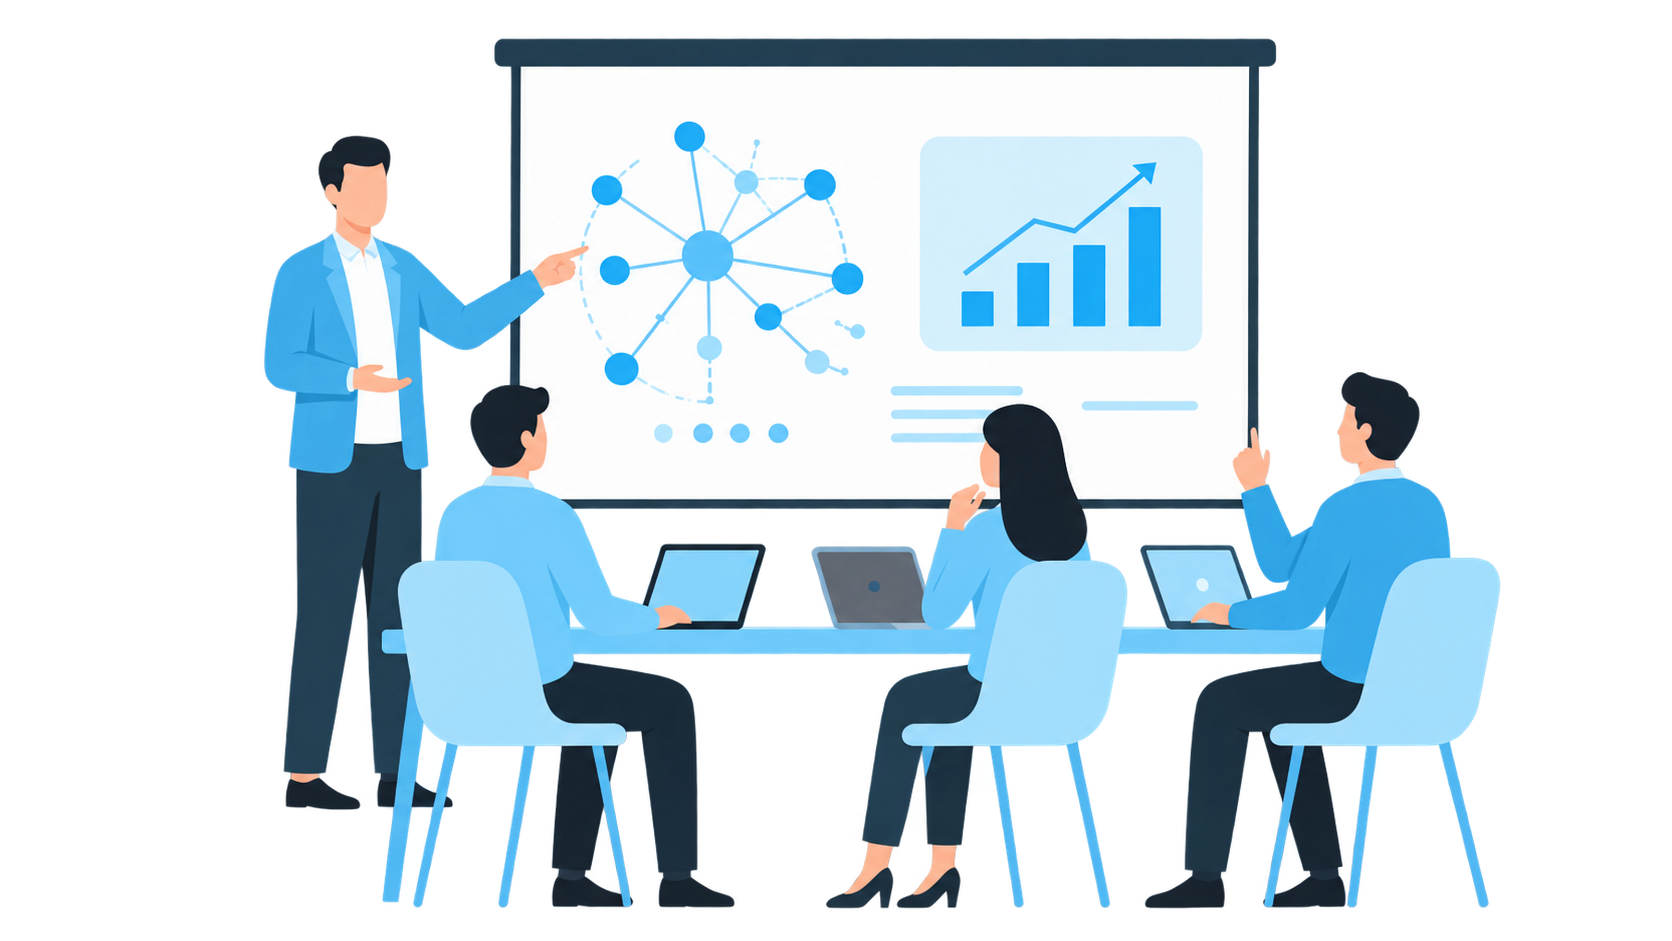
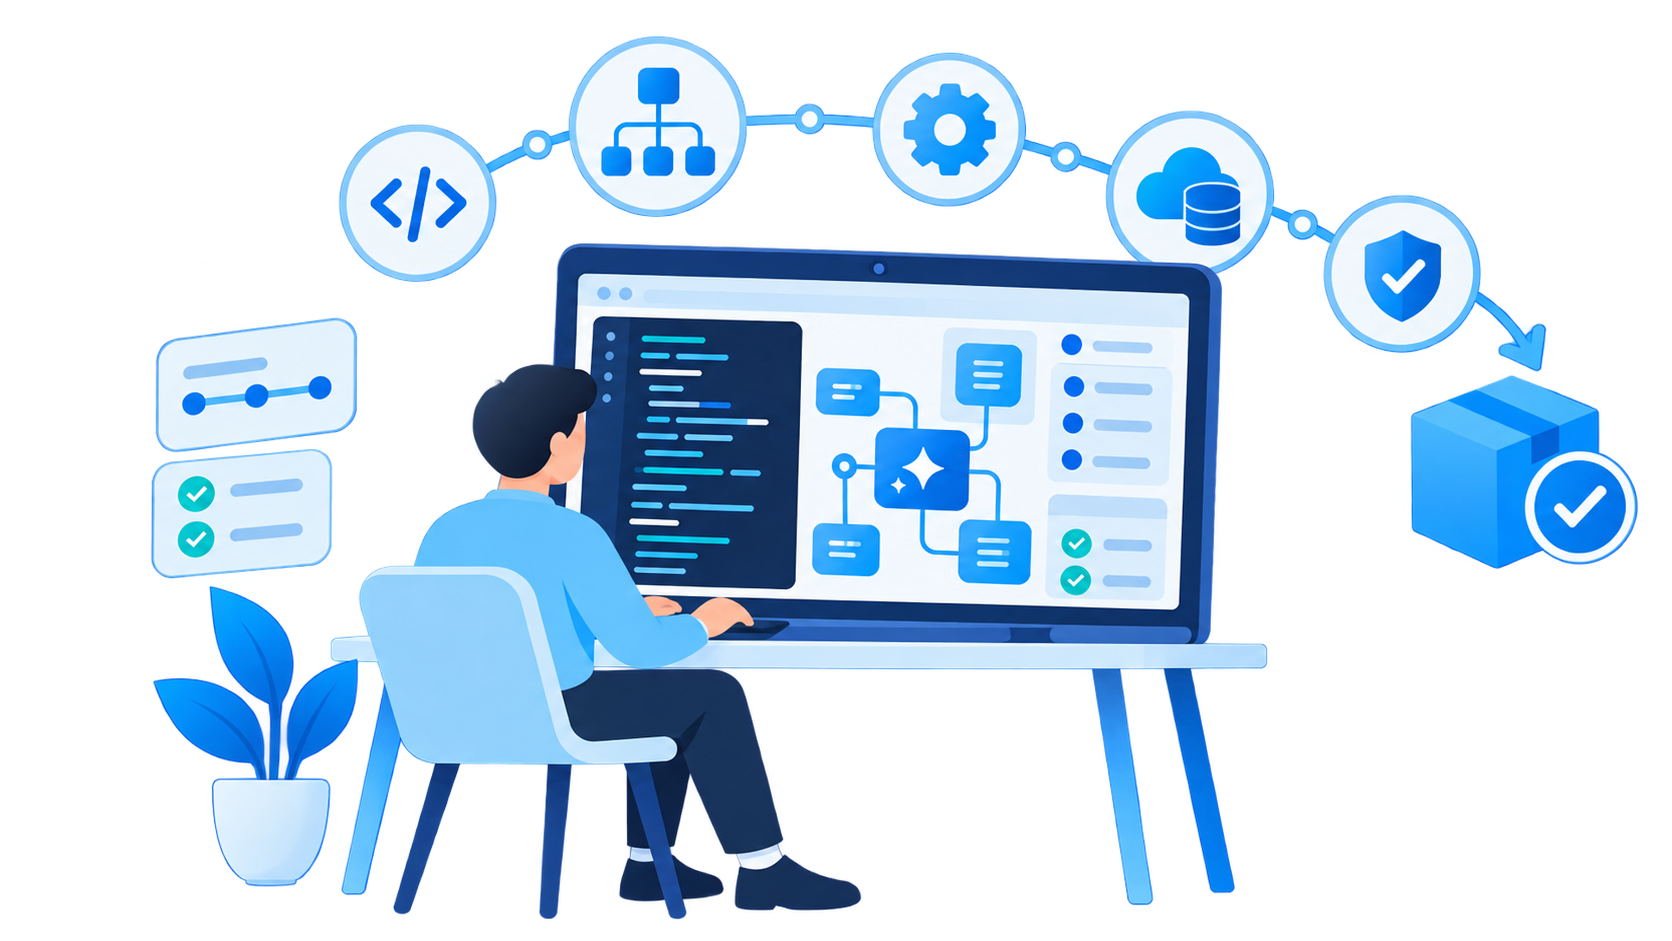
Update service lineup and card interactions

diff --git a/public/assets/style.css b/public/assets/style.css
@@ -164,9 +164,9 @@ img{max-width:100%}
 .nav-toggle{display:none;background:none;border:none;cursor:pointer;padding:6px;color:var(--navy)}
 
 /* ---------- Section heading ---------- */
-.sec{padding:124px 0 128px}
+.sec{padding:104px 0 108px}
 .sec-light{background:var(--light-blue)}
-.sec-head{text-align:center;margin-bottom:50px}
+.sec-head{text-align:center;margin-bottom:42px}
 .sec-en{font-size:86px;font-weight:700;letter-spacing:.02em;color:var(--ghost);line-height:1}
 .sec-en.sm{font-size:72px}
 .sec-jp{font-size:20px;font-weight:700;color:var(--navy);margin-top:18px}
@@ -175,7 +175,7 @@ img{max-width:100%}
 /* ---------- Page hero (sub pages) ---------- */
 .page-hero{
   position:relative;background:var(--color-primary);
-  color:#fff;padding:74px 0 70px;overflow:hidden;
+  color:#fff;padding:62px 0 58px;overflow:hidden;
 }
 .page-hero::before{
   content:"";position:absolute;inset:0;
@@ -188,7 +188,7 @@ img{max-width:100%}
 .breadcrumb a:hover{text-decoration:underline}
 
 /* ---------- CTA band ---------- */
-.cta-band{background:var(--navy);color:#fff;padding:42px 0;border-top:1px solid rgba(255,255,255,.16)}
+.cta-band{background:var(--navy);color:#fff;padding:36px 0;border-top:1px solid rgba(255,255,255,.16)}
 .cta-band .container{display:flex;align-items:center;justify-content:space-between;gap:30px;flex-wrap:wrap}
 .cta-band .ttl{font-size:27px;font-weight:700;margin-bottom:8px}
 .cta-band .sub{font-size:14px;color:#fff}
@@ -197,11 +197,18 @@ img{max-width:100%}
 .cta-band .btn-pill{padding:16px 54px;font-size:14.5px}
 
 /* ---------- Footer ---------- */
-.site-footer{background:var(--navy-dark);color:#fff;padding:54px 0 26px;font-size:13px}
+.site-footer{background:var(--navy-dark);color:#fff;padding:48px 0 24px;font-size:13px}
 .footer-top{display:flex;justify-content:space-between;gap:40px;flex-wrap:wrap;padding-bottom:38px;border-bottom:1px solid var(--navy-line)}
 .footer-brand{max-width:300px}
+.footer-brand-row{display:flex;align-items:center;gap:14px}
 .footer-brand .footer-logo{display:inline-block}
 .footer-brand .footer-logo img{height:30px;width:auto;max-width:100%;display:block}
+.footer-social-links{display:flex;align-items:center;gap:7px}
+.footer-social-links a{width:34px;height:34px;display:grid;place-items:center;border:1px solid rgba(255,255,255,.32);border-radius:50%;color:#fff;transition:background-color .2s,border-color .2s,transform .2s}
+.footer-social-links a:hover{background:rgba(255,255,255,.12);border-color:rgba(255,255,255,.7);transform:translateY(-1px)}
+.footer-social-links a:focus-visible{outline:2px solid #fff;outline-offset:3px}
+.footer-social-links svg{width:17px;height:17px;fill:none;stroke:currentColor;stroke-width:1.8;stroke-linecap:round;stroke-linejoin:round}
+.footer-social-links .footer-social-dot{fill:currentColor;stroke:none}
 .footer-brand .addr{line-height:2;color:#fff;font-size:12.5px;margin-top:18px}
 .footer-brand .footer-security{display:inline-block;margin-top:20px;line-height:0;transition:opacity .2s}
 .footer-brand .footer-security:hover{opacity:.85}
@@ -297,7 +304,11 @@ img{max-width:100%}
 @media (max-width:760px){
   .container{padding:0 20px}
   .header-inner{padding:12px 20px}
-  .sec{padding:80px 0 84px}
+  .sec{padding:68px 0 72px}
+  .sec-head{margin-bottom:36px}
+  .page-hero{padding:52px 0 48px}
+  .cta-band{padding:32px 0}
+  .site-footer{padding:42px 0 22px}
   .cta-band .container{flex-direction:column;align-items:flex-start}
   .cta-band .actions{width:100%;flex-direction:column;gap:12px}
   .cta-band .btn-pill{width:100%;min-width:0}
